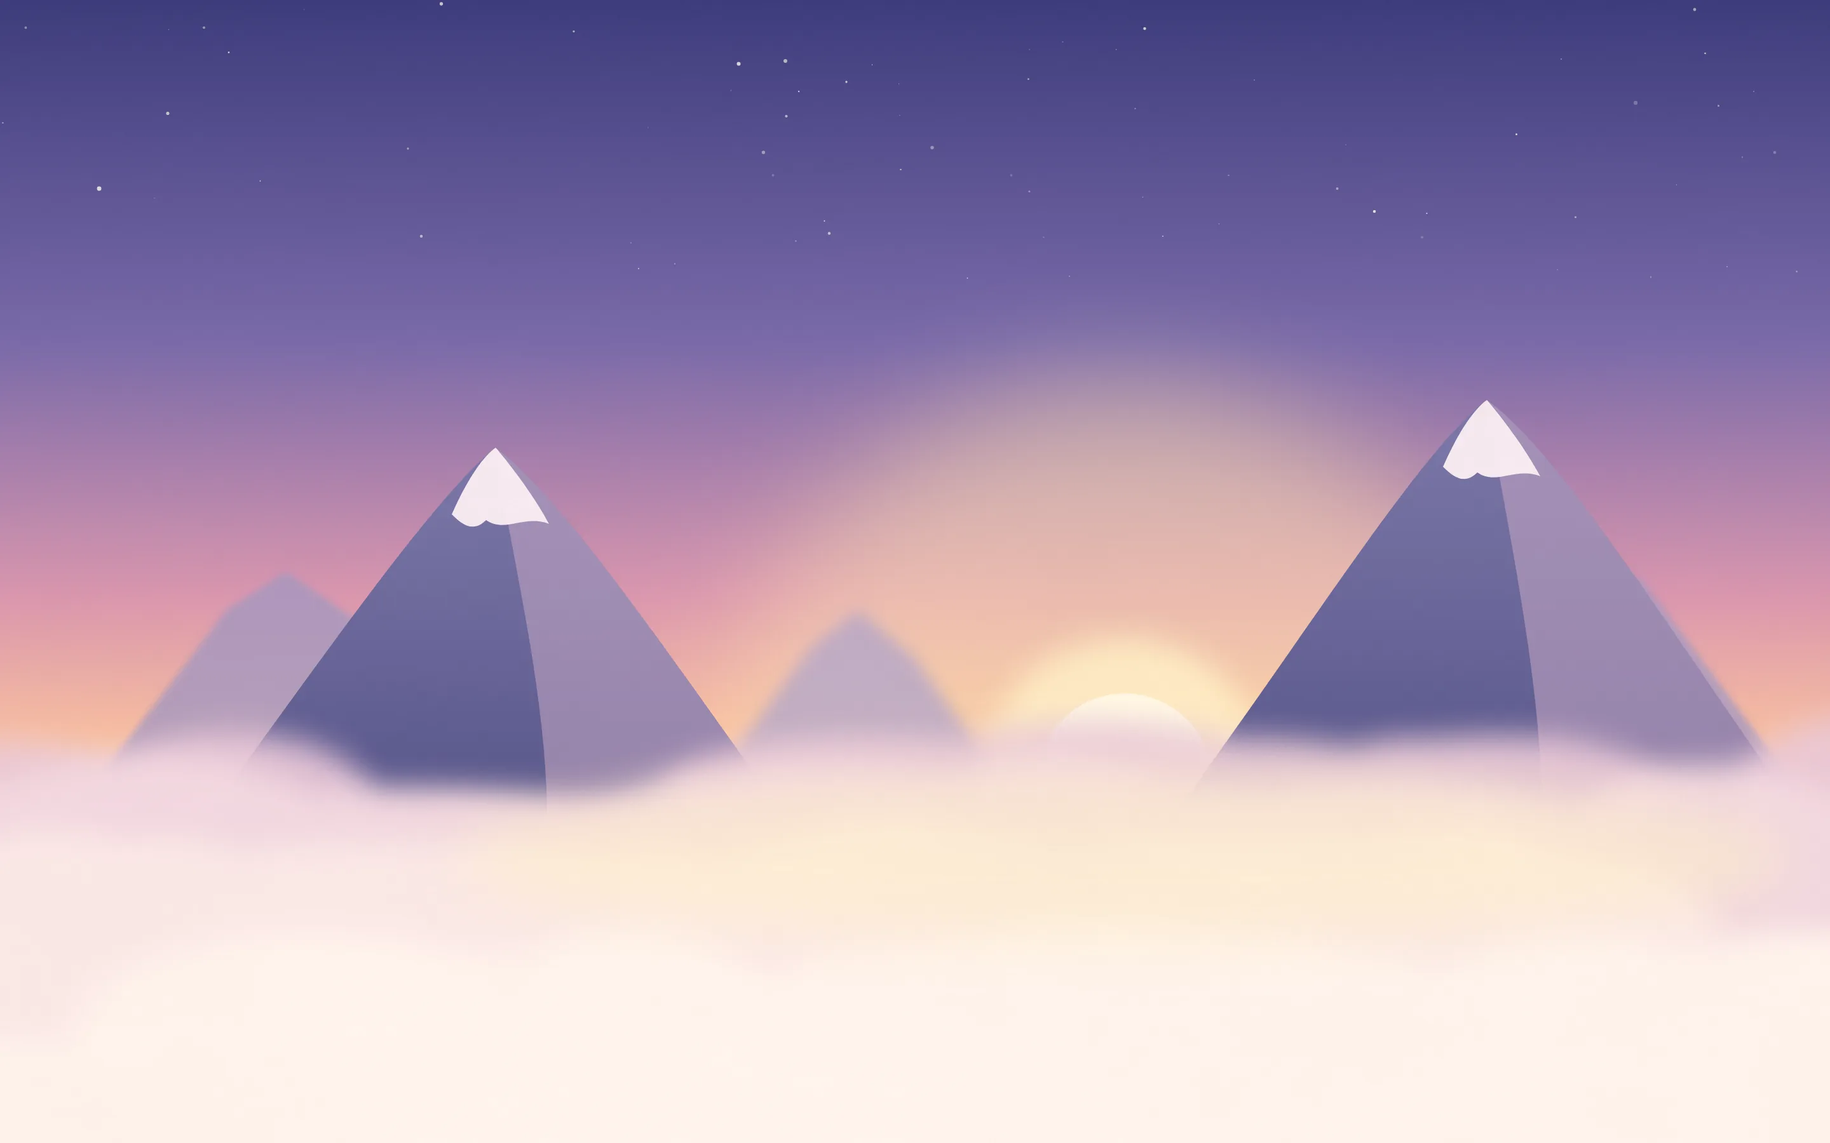
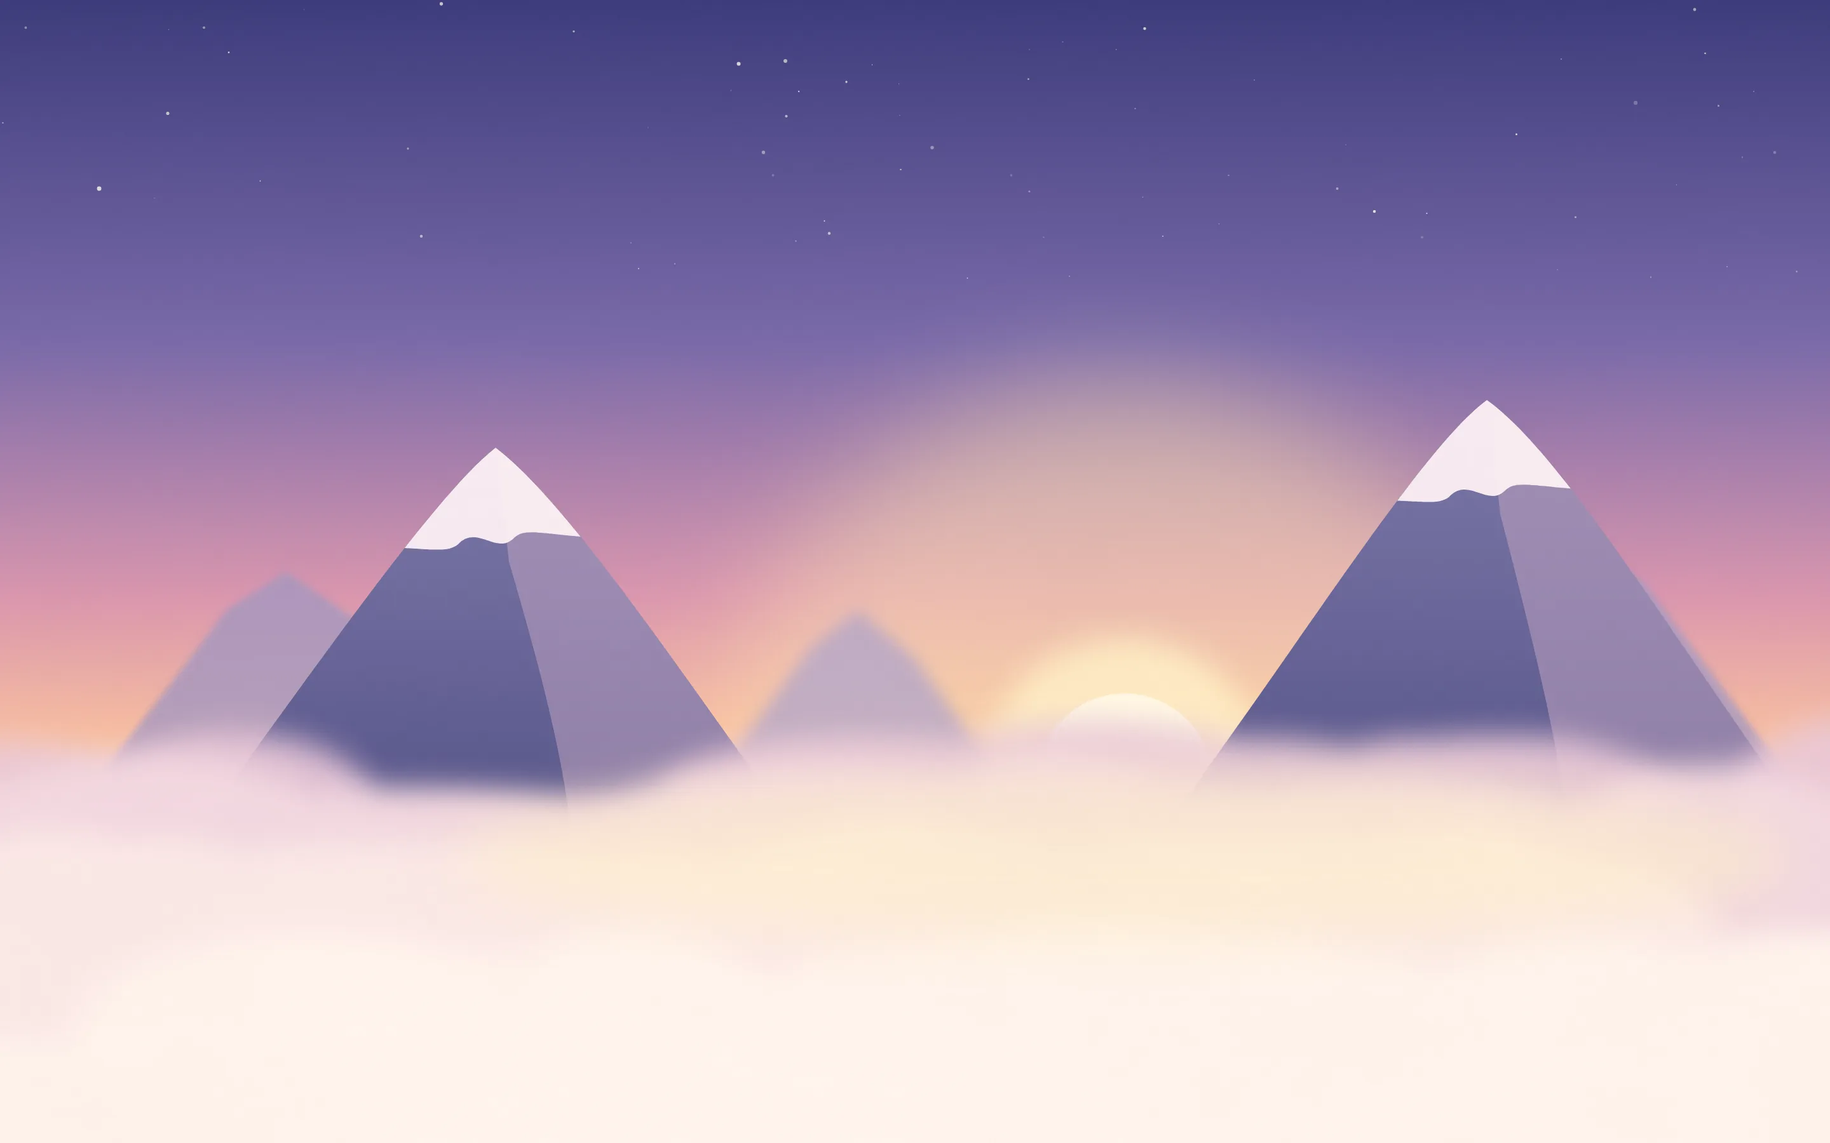
大百科スキン：雲海の雪を山の輪郭で切る、天球図の星をにじむ光に
Claude-Session: https://claude.ai/code/session_01EiWRAXdgG2E49zWGCUrEwZ

diff --git a/atlas/skins-fx.js b/atlas/skins-fx.js
@@ -141,11 +141,11 @@
       + `<i class="pc a-sail" style="left:0;top:0;width:90px;height:76px;offset-path:path('${ROUTE}')">${SHIP()}</i>` + PINS.map(([lo, la], i) => p(PIN(), 96 + (lo + 180) * 4.8, 144 + (72.5 - la) * 4.8 - 20, 30, 36, 'a-pin', { d: 30, dl: -30 + i * 30 / PINS.length * .9 })).join('')
       + `<i class="pc a-cloudsh" style="left:-600px;top:0;width:900px;height:1200px"></i>` + motes(14, '#fff6dc', 351, 0, 0, 1920, 1200),
     s36: T => `<i class="sp a-aurcv"><canvas></canvas></i>` + twinkles(T ? 80 : 50, ['#fff6dc', '#dff4ff'], 36, 0, 70, [6, 14]) + shooting(6, 36, 7),
-    s37: T => `<i class="sp a-sky"><svg viewBox="-1000 -1000 2000 2000"><g class="a-sky2">${[400, 640, 880].map((r, i) => `<circle r="${r}" fill="none" stroke="#ffe7a8" stroke-width="3" stroke-dasharray="${i % 2 ? '60 40' : '2 22'}" opacity=".22"/>`).join('')}${Array.from({ length: 12 }, (_, k) => { const a = k * Math.PI / 6; return `<text x="${f1(Math.cos(a) * 960)}" y="${f1(Math.sin(a) * 960)}" font-size="44" fill="#ffe7a8" opacity=".35" text-anchor="middle" transform="rotate(${f1(a * 180 / Math.PI + 90)} ${f1(Math.cos(a) * 960)} ${f1(Math.sin(a) * 960)})">${'♈♉♊♋♌♍♎♏♐♑♒♓'[k]}</text>`; }).join('')}</g>${[300, 520, 740, 960].map((r, i) => `<circle r="${r}" fill="none" stroke="#e6c77a" stroke-width="2" stroke-dasharray="${3 + i * 3} ${14 + i * 8}" opacity=".35"/>`).join('')}${Array.from({ length: 90 }, (_, k) => { const r = rnd(370 + k), a = r() * 6.283, d = 80 + r() * 940; return `<circle cx="${f1(Math.cos(a) * d)}" cy="${f1(Math.sin(a) * d)}" r="${f1(1 + r() * 2.4)}" fill="#fff3cf" opacity="${f1(.4 + r() * .6)}"/>`; }).join('')}</svg></i>`
-      + `<i class="pc" style="left:0;top:0;width:1920px;height:1200px"><svg viewBox="0 0 1920 1200">${CONS.map((c, i) => `<g class="a-con" style="--dl:${(i * 4 - 32).toFixed(1)}s"><path d="M${c.map(q => q.join(' ')).join(' L')}" fill="none" stroke="#ffe7a8" stroke-width="3.5" stroke-linecap="round" stroke-linejoin="round" pathLength="100" stroke-dasharray="100" />${c.map(q => `<circle cx="${q[0]}" cy="${q[1]}" r="8" fill="#fff6dc"/>`).join('')}</g>`).join('')}</svg></i>`
+    s37: T => `<i class="sp a-sky"><svg viewBox="-1000 -1000 2000 2000"><defs><radialGradient id="sst"><stop offset="0" stop-color="#ffffff"/><stop offset=".3" stop-color="#fff3cf" stop-opacity=".6"/><stop offset="1" stop-color="#fff3cf" stop-opacity="0"/></radialGradient></defs><g class="a-sky2">${[400, 640, 880].map((r, i) => `<circle r="${r}" fill="none" stroke="#ffe7a8" stroke-width="3" stroke-dasharray="${i % 2 ? '60 40' : '2 22'}" opacity=".22"/>`).join('')}${Array.from({ length: 12 }, (_, k) => { const a = k * Math.PI / 6; return `<text x="${f1(Math.cos(a) * 960)}" y="${f1(Math.sin(a) * 960)}" font-size="44" fill="#ffe7a8" opacity=".35" text-anchor="middle" transform="rotate(${f1(a * 180 / Math.PI + 90)} ${f1(Math.cos(a) * 960)} ${f1(Math.sin(a) * 960)})">${'♈♉♊♋♌♍♎♏♐♑♒♓'[k]}</text>`; }).join('')}</g>${[300, 520, 740, 960].map((r, i) => `<circle r="${r}" fill="none" stroke="#e6c77a" stroke-width="2" stroke-dasharray="${3 + i * 3} ${14 + i * 8}" opacity=".35"/>`).join('')}${Array.from({ length: 90 }, (_, k) => { const r = rnd(370 + k), a = r() * 6.283, d = 80 + r() * 940; return `<circle cx="${f1(Math.cos(a) * d)}" cy="${f1(Math.sin(a) * d)}" r="${f1(3 + r() * 6)}" fill="url(#sst)" opacity="${f1(.4 + r() * .6)}"/>`; }).join('')}</svg></i>`
+      + `<i class="pc" style="left:0;top:0;width:1920px;height:1200px"><svg viewBox="0 0 1920 1200"><defs><radialGradient id="cst"><stop offset="0" stop-color="#ffffff" stop-opacity=".95"/><stop offset=".22" stop-color="#fff6dc" stop-opacity=".8"/><stop offset=".5" stop-color="#ffe7a8" stop-opacity=".25"/><stop offset="1" stop-color="#ffe7a8" stop-opacity="0"/></radialGradient></defs>${CONS.map((c, i) => `<g class="a-con" style="--dl:${(i * 4 - 32).toFixed(1)}s"><path d="M${c.map(q => q.join(' ')).join(' L')}" fill="none" stroke="#ffe7a8" stroke-width="3" stroke-opacity=".75" stroke-linecap="round" stroke-linejoin="round" pathLength="100" stroke-dasharray="100" />${c.map(q => `<circle cx="${q[0]}" cy="${q[1]}" r="16" fill="url(#cst)"/>`).join('')}</g>`).join('')}</svg></i>`
       + twinkles(60, ['#fff3cf', '#ffe7a8', '#d8e6ff'], 37, 0, 100, [8, 18]) + shooting(6, 37, 7) + `<i class="sp a-comet"></i><i class="sp a-comet" style="animation-delay:-11s;top:30%"></i>`
       + `<i class="pc" style="left:0;top:0;width:1920px;height:1200px"><svg viewBox="0 0 1920 1200"><path d="${ECL}" fill="none" stroke="#ffe7a8" stroke-width="2" stroke-dasharray="4 12" opacity=".35"/></svg></i>`
-      + [['#fff1b8', 34, 60, 0], ['#ffc9a8', 22, 44, -9], ['#c9e0ff', 18, 36, -20], ['#ffe0f0', 14, 52, -31], ['#d8ffe8', 12, 40, -40]].map(([c, w, d, dl]) => `<i class="pc a-planet" style="left:0;top:0;width:${w * 3}px;height:${w * 3}px;offset-path:path('${ECL}');--d:${d}s;--dl:${dl}s">${GLOW(c)}<i style="position:absolute;left:33%;top:33%;width:34%;height:34%;border-radius:50%;background:${c}"></i></i>`).join(''),
+      + [['#fff1b8', 34, 60, 0], ['#ffc9a8', 22, 44, -9], ['#c9e0ff', 18, 36, -20], ['#ffe0f0', 14, 52, -31], ['#d8ffe8', 12, 40, -40]].map(([c, w, d, dl]) => `<i class="pc a-planet" style="left:0;top:0;width:${w * 3}px;height:${w * 3}px;offset-path:path('${ECL}');--d:${d}s;--dl:${dl}s">${GLOW(c)}<i style="position:absolute;left:30%;top:30%;width:40%;height:40%;border-radius:50%;background:radial-gradient(circle,#fff 0,${c} 35%,transparent 72%)"></i></i>`).join(''),
     s38: T => twinkles(T ? 90 : 60, ['#fff6e6', '#e6dcff'], 38, 0, 80, [6, 14]) + shooting(4, 38, 9)
       + `<i class="pc a-rail" style="left:0;top:0;width:520px;height:80px;offset-path:path('${RAIL}')">${NTRAIN()}</i>` + Array.from({ length: 16 }, (_, i) => `<i class="pc a-rail a-trail" style="left:0;top:0;width:${18 - i * .6}px;height:${18 - i * .6}px;offset-path:path('${RAIL}');--lag:${(i + 1) * .35}s">${TW(i % 2 ? '#ffe9a6' : '#e6dcff')}</i>`).join('')
       + `<i class="pc" style="left:0;top:0;width:1920px;height:1200px"><svg viewBox="0 0 1920 1200"><path d="${RAIL}" fill="none" stroke="#e6dcff" stroke-width="2" stroke-dasharray="1 16" stroke-linecap="round" opacity=".5"/></svg></i>` + p(GLOW('#fdf0c8'), 300, 200, 300, 300, 'a-pulse', { d: 7 }),

diff --git a/atlas/skins.js b/atlas/skins.js
@@ -9,7 +9,7 @@
 (function () {
   'use strict';
   const BASE = (() => { try { return new URL('../images/atlas/skin/', document.currentScript.src).href; } catch (e) { return '../images/atlas/skin/'; } })();
-  const V = 14, FXV = 9;   // bump when the images are re-rendered
+  const V = 15, FXV = 10;   // bump when the images are re-rendered
   const DEV_ALL = true;
   const RAR = ['N', 'R', 'SR', 'SSR', 'UR'];
   // id: [rarity, kind (tile px | 'c' = cover), page colour, header colour, selected-tab colour, dark]

diff --git a/atlas/index.html b/atlas/index.html
@@ -2378,7 +2378,7 @@ else document.write('<script src="https://cdnjs.cloudflare.com/ajax/libs/three.j
 <script src="texgen.js?v=2"></script>
 <script src="npc/roster.js?v=16"></script>
 <script src="art.js?v=19"></script>
-<script src="skins.js?v=18"></script>
+<script src="skins.js?v=19"></script>
 <script src="../shared/atlas-updates.js?v=48"></script>
 <script src="../shared/atlas.js?v=20261119nw1"></script>
 <script src="../shared/atlas-firebase-config.js?v=ac1"></script>

diff --git a/atlas/tools/skins_ur3.py b/atlas/tools/skins_ur3.py
@@ -59,9 +59,11 @@ def cloud_dawn():
         g.append(f'<path d="M{px - w / 2:.0f} 900 L{px - w * .12:.0f} {py + 40:.0f} L{px:.0f} {py:.0f} L{px + w * .14:.0f} {py + 50:.0f} L{px + w / 2:.0f} 900 Z" fill="{col}" opacity=".8" filter="url(#{blur})"/>')
     for (px, py, w, sd) in ((520, 470, 760, 1), (1560, 420, 820, 2)):
         L, R = px - w / 2, px + w / 2
-        g.append(f'<path d="M{L:.0f} 960 C{L + w * .2:.0f} 760 {px - w * .1:.0f} {py + 60:.0f} {px:.0f} {py:.0f} C{px + w * .12:.0f} {py + 70:.0f} {R - w * .2:.0f} 760 {R:.0f} 960 Z" fill="url(#pk)"/>')
-        g.append(f'<path d="M{px:.0f} {py:.0f} C{px + w * .12:.0f} {py + 70:.0f} {R - w * .2:.0f} 760 {R:.0f} 960 L{px + w * .06:.0f} 960 C{px + w * .1:.0f} 800 {px + w * .02:.0f} {py + 120:.0f} {px:.0f} {py:.0f} Z" fill="#c6a8c4" opacity=".55"/>')
-        g.append(f'<path d="M{px - 46:.0f} {py + 70:.0f} C{px - 24:.0f} {py + 20:.0f} {px - 6:.0f} {py + 4:.0f} {px:.0f} {py:.0f} C{px + 14:.0f} {py + 16:.0f} {px + 40:.0f} {py + 50:.0f} {px + 56:.0f} {py + 80:.0f} C{px + 30:.0f} {py + 70:.0f} {px + 10:.0f} {py + 90:.0f} {px - 10:.0f} {py + 76:.0f} C{px - 24:.0f} {py + 90:.0f} {px - 36:.0f} {py + 80:.0f} {px - 46:.0f} {py + 70:.0f} Z" fill="#fbeef2" opacity=".95"/>')
+        mt = f'M{L:.0f} 960 C{L + w * .2:.0f} 760 {px - w * .1:.0f} {py + 60:.0f} {px:.0f} {py:.0f} C{px + w * .12:.0f} {py + 70:.0f} {R - w * .2:.0f} 760 {R:.0f} 960 Z'
+        g.append(f'<clipPath id="mk{sd}"><path d="{mt}"/></clipPath><path d="{mt}" fill="url(#pk)"/>')
+        g.append(f'<g clip-path="url(#mk{sd})">'   # the lit side and the snow cap are cut by the mountain's own outline (no edges sticking out)
+                 f'<path d="M{px:.0f} {py - 10:.0f} L{px + 14:.0f} {py + 120:.0f} C{px + w * .1:.0f} 800 {px + w * .12:.0f} 900 {px + w * .1:.0f} 980 L{R + 40:.0f} 980 L{R + 40:.0f} {py - 10:.0f} Z" fill="#c6a8c4" opacity=".5"/>'
+                 f'<path d="M{L:.0f} {py - 20:.0f} L{R:.0f} {py - 20:.0f} L{R:.0f} {py + 92:.0f} C{px + 60:.0f} {py + 112:.0f} {px + 40:.0f} {py + 74:.0f} {px + 18:.0f} {py + 96:.0f} C{px:.0f} {py + 112:.0f} {px - 20:.0f} {py + 80:.0f} {px - 40:.0f} {py + 102:.0f} C{px - 60:.0f} {py + 116:.0f} {px - 80:.0f} {py + 96:.0f} {L:.0f} {py + 100:.0f} Z" fill="#fbeef2" opacity=".96"/></g>')
     # the sea of clouds: layered soft billows, lit pink-gold toward the sun
     r = RNG(893)
     for y, col, op, n, s in ((820, '#e9c7d8', .9, 14, 120), (880, '#f4d9e0', .95, 16, 130), (960, '#fbe8e6', 1, 18, 140), (1060, '#fff3ec', 1, 18, 150)):

diff --git a/claude/atlas-portal-spec.md b/claude/atlas-portal-spec.md
@@ -48,7 +48,7 @@ URL: https://core-calmdust.github.io/aicoding/atlas/  ／ 詳細: repo の atlas
 - きせかえの並び替え（持ってる順／レア度 高い順／低い順）の**左・同じ列にレア度のプルダウン**（すべて・N・R・SR・SSR・UR）。タグ形式は使わない（場所を取るため）。並び替えと組み合わせて使え、選択は端末に保存（`atlas-drar`）。スマホでも1列に収める。2026-11-09
 - **スキン（2026-11-20）**：きせかえのタブは「アイコン｜背景｜フレーム｜スキン」（テーブルはゲーム中に変えられるので、スマホの下タブが窮屈にならないよう外した）。スキンはポータルのページそのものの着せかえ：ページの背景（継ぎ目なしのタイル画像 or 1枚絵＝position:fixed の body::before）・ヘッダーとスティッキーバーの色・選択中のメニュータブの色を変える。カード・シート・3Dビューの色は変えない。暗いスキン（夜空・オーロラ・天球図・カードテーブル、`html.skdark`）はページ上・ヘッダーの文字を白系に。
   - **計100種（2026-11-20、追加59種は作り直し版）**：R31・SR37・SSR22・UR10（クリーム含む。11-20の作り直し後）。追加分はテーマが既存と重ならないように選び直し、実寸で1枚ずつ検品して基準に届いたものだけを採用。R（s41〜58）＝デニム・たたみ・帆布・ニット・障子・石だたみ・白レンガ・サブウェイタイル・黒板・すだれ・籐あみ・コーデュロイ・タータン・ツイード・テラコッタ・麻袋・シアサッカー・網代（atlas/tools/skins_r2.py）。SR（s59〜78）＝麻雀牌・将棋の駒・パズル・つみき・折り鶴・だるま・マトリョーシカ・北欧の花・ゼリージュ・アズレージョ・ペイズリー・切手・金魚・おやつ・紙ひこうき・旅のしたく・ハーブ・貝がら・うちゅう・手芸（SVGで描いてChromeで描画、atlas/tools/skins_sr2.py。ハーフドロップの格子・隣り合う柄が同じにならない配置）。SSR（s79〜88・s96〜99）＝世界の風景：パリ・ヴェネツィア・サントリーニ・京都・北欧の港町・ピラミッド・ゆうえんち・すいぞくかん・としょかん・汽車の旅・サバンナ・南極・カッパドキア・メキシコの広場（atlas/tools/skins_ssr2.py、上半分の空は静かに・絵は下部と左右に）。UR（s89〜95）＝ステンドグラス（光が動く）・万華鏡（色が回る）・寄木細工・七宝焼・夜のゆうえんち（電飾が点滅）・蒔絵と螺鈿（貝が光る）・アールデコ（atlas/tools/skins_ur2.py）。動くURは2枚のクロスフェード（skins.js ANIM）。暗いスキンは s24・s33・s36・s37・s49・s93・s94。描画ツール atlas/tools/svgrender.js（puppeteer）。
-  - **SSR・URは1枚の場面が動く（2026-11-20 作り直し）**：柄の繰り返し・決まった動きはSSR/URから外す（大理石・水彩・寄木・七宝・アールデコはSRへ）→ R31・SR37・SSR22・UR10。SSR＝風景の中のものが動く（雲が流れる・鳥が渡る・ヨット/ゴンドラ/遊覧船/汽車が進む・魚とマンタが泳ぐ・気球や風船が上がる・紅葉/花びら/雪が降る・ペンギンがよちよち・クジラの尾・旗がゆれる・本の部屋は窓の雲と光の塵）。UR＝画面全体が意味を持って動く：古地図＝帆船が航路をたどり点線が延び、ゲームの発祥地にピンが立つ／オーロラ＝canvas で本物の動きを描く（skins-fx.js aurora()）：磁力線に沿った細い光の筋の束、下端が明るい緑で上へ紫・赤に消える、帯にそってひだ・S字のうねりが流れ、筋はゆっくり流れ（ちらつかせない）・ときどき伸び上がる・半透明強め、ひだが重なる所は明るい（画面の1/3解像度＋ぼかし、30fps、3Dビュー等の表示中・非表示タブでは止める）。絵（s36）にはオーロラを描かず空だけ／天球図＝星空と黄道十二宮の環が逆向きに回る・星座は普段グレー（絵に描く）、描いている1つだけが金色の線で結ばれ星が脈打ち、次の星座を描き始めるとグレーに戻る（4秒ずつ順番）・黄道を惑星が進む・流れ星と彗星／天球図＝星座が順に線で結ばれ星空が回る・彗星／銀河鉄道（s38）＝夜汽車が光の尾を引いて空を走る／クラゲの海（s39）＝クラゲが脈打ちながら昇り光の筋がゆれる／天灯まつり（s40）＝湖畔の町から天灯が画面いっぱいに昇り、湖の灯りがゆらぐ／雲海の夜明け（s89）＝雲海が流れ、峰を霧が横切り、朝日の光芒が回る・鳥／夜光の海（s90）＝青く光る波が入江に寄せては返し、灯台の光が回る・波打ち際のきらめき・流れ星／夜のゆうえんち＝観覧車＋半透明の打ち上げ花火＋メリーゴーランドの木馬が回る（奥へ回ると小さく暗く）／蒔絵と螺鈿＝螺鈿の花びらは全部が舞う（絵には描かない）・金のきらめき・水面の光。オパール・ステンドグラス・万華鏡は廃止（2026-11-20、IDはそのまま新しい絵に。atlas/tools/skins_ur3.py）。ベクター感を消すため、UR の絵と動く部品はぼかし・半透明・グラデーションでやわらかく（オーロラは均等な縞をやめて幅のばらばらな光の筋、きらめきは光のにじみ付き、光の柱は縁をぼかす）。動く部品は静止画に描かず（tools の MV／still()）、atlas/skins-fx.js（SSR・URを着けている時だけ読み込む）が「絵と同じ座標（1920×1200、縦長は1920×3000）の舞台」を cover と同じ位置・倍率に置いて載せる。画面全体のもの（雪・花びら・きらめき）は画面の層。transform/opacity/offset-path だけ動かし、3Dビュー等の表示中は止める。
+  - **SSR・URは1枚の場面が動く（2026-11-20 作り直し）**：柄の繰り返し・決まった動きはSSR/URから外す（大理石・水彩・寄木・七宝・アールデコはSRへ）→ R31・SR37・SSR22・UR10。SSR＝風景の中のものが動く（雲が流れる・鳥が渡る・ヨット/ゴンドラ/遊覧船/汽車が進む・魚とマンタが泳ぐ・気球や風船が上がる・紅葉/花びら/雪が降る・ペンギンがよちよち・クジラの尾・旗がゆれる・本の部屋は窓の雲と光の塵）。UR＝画面全体が意味を持って動く：古地図＝帆船が航路をたどり点線が延び、ゲームの発祥地にピンが立つ／オーロラ＝canvas で本物の動きを描く（skins-fx.js aurora()）：磁力線に沿った細い光の筋の束、下端が明るい緑で上へ紫・赤に消える、帯にそってひだ・S字のうねりが流れ、筋はゆっくり流れ（ちらつかせない）・ときどき伸び上がる・半透明強め、ひだが重なる所は明るい（画面の1/3解像度＋ぼかし、30fps、3Dビュー等の表示中・非表示タブでは止める）。絵（s36）にはオーロラを描かず空だけ／天球図＝星空と黄道十二宮の環が逆向きに回る・星座は普段グレー（絵に描く）、描いている1つだけが金色の線で結ばれ星が脈打ち、次の星座を描き始めるとグレーに戻る（4秒ずつ順番）。星・惑星は光のにじみ（放射グラデーション）で描く・黄道を惑星が進む・流れ星と彗星／天球図＝星座が順に線で結ばれ星空が回る・彗星／銀河鉄道（s38）＝夜汽車が光の尾を引いて空を走る／クラゲの海（s39）＝クラゲが脈打ちながら昇り光の筋がゆれる／天灯まつり（s40）＝湖畔の町から天灯が画面いっぱいに昇り、湖の灯りがゆらぐ／雲海の夜明け（s89）＝雲海が流れ、峰を霧が横切り、朝日の光芒が回る・鳥／夜光の海（s90）＝青く光る波が入江に寄せては返し、灯台の光が回る・波打ち際のきらめき・流れ星／夜のゆうえんち＝観覧車＋半透明の打ち上げ花火＋メリーゴーランドの木馬が回る（奥へ回ると小さく暗く）／蒔絵と螺鈿＝螺鈿の花びらは全部が舞う（絵には描かない）・金のきらめき・水面の光。オパール・ステンドグラス・万華鏡は廃止（2026-11-20、IDはそのまま新しい絵に。atlas/tools/skins_ur3.py）。ベクター感を消すため、UR の絵と動く部品はぼかし・半透明・グラデーションでやわらかく（オーロラは均等な縞をやめて幅のばらばらな光の筋、きらめきは光のにじみ付き、光の柱は縁をぼかす）。動く部品は静止画に描かず（tools の MV／still()）、atlas/skins-fx.js（SSR・URを着けている時だけ読み込む）が「絵と同じ座標（1920×1200、縦長は1920×3000）の舞台」を cover と同じ位置・倍率に置いて載せる。画面全体のもの（雪・花びら・きらめき）は画面の層。transform/opacity/offset-path だけ動かし、3Dビュー等の表示中は止める。
   - **画面サイズ対応（2026-11-20）**：1枚絵は下端合わせ（横長画面では空側を多めに切る＝縦位置82%）、横位置はランドマークに合わせてスキンごとに（skins.js POS）。6:5より縦長の画面では縦長版 <id>-p.webp（1920×3000、絵の上に空を1800足したもの、atlas/tools/skins_tall.py）。スマホでは絵の下端を下のバーの上に合わせる。
   - **古地図の位置**（2026-11-20）：地図が上寄りの絵なので、横長は縦 22%（skins.js PY）、縦長の絵（s35-p）は地図を真ん中に置き上下に羊皮紙を足す（PYP 50%・TOFF 900、tools/skins_tall.py extend_map）。動く部品の舞台も同じ値で置く。
   - **クラゲの海はやわらかく**（2026-11-20）：光の柱・海底・イソギンチャクをぼかし、クラゲはグラデーションの傘と消えていく触手に。skins-fx.js の乱数は種を混ぜてから使う（隣の種で最初の値がそろい、泡などが左端に並んでいた）。
